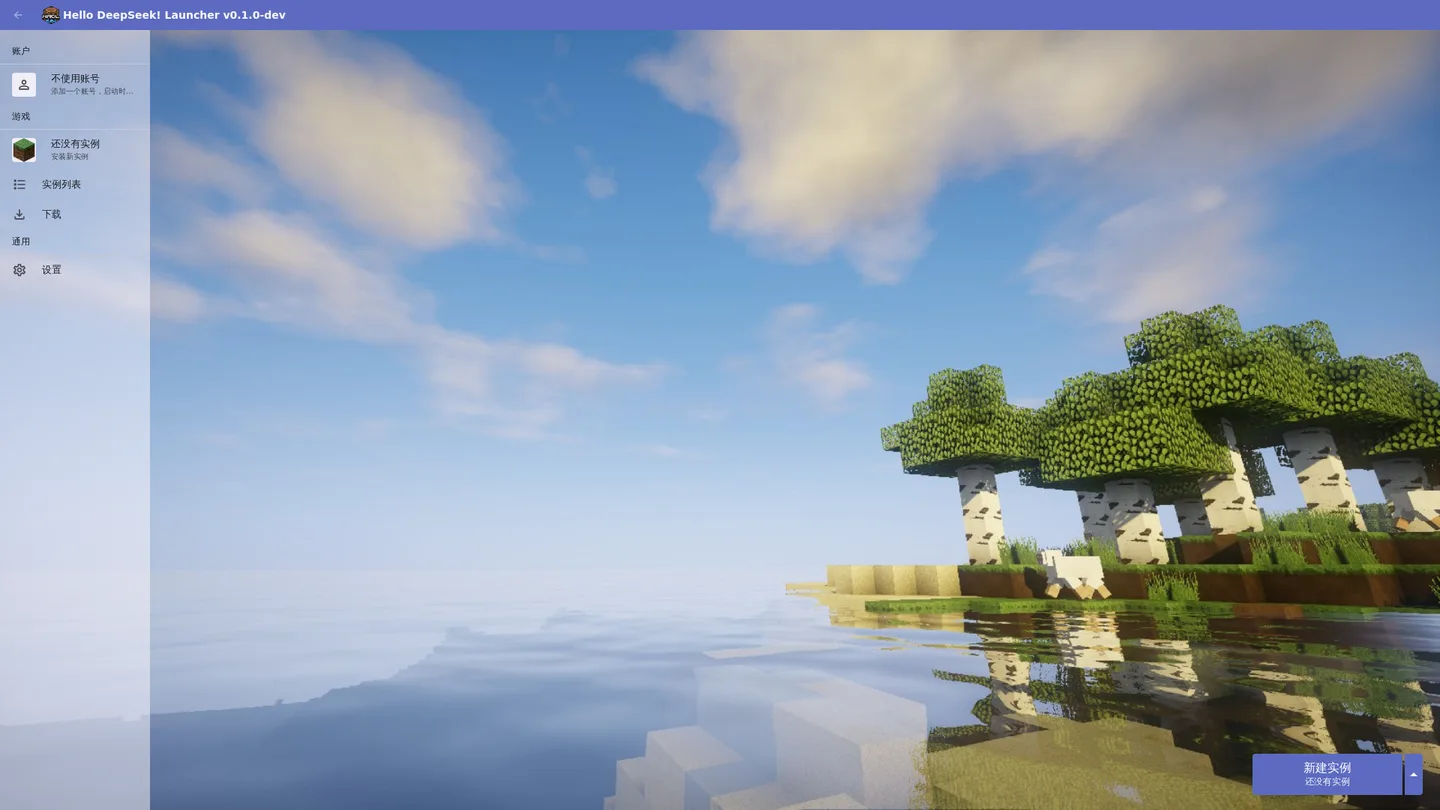
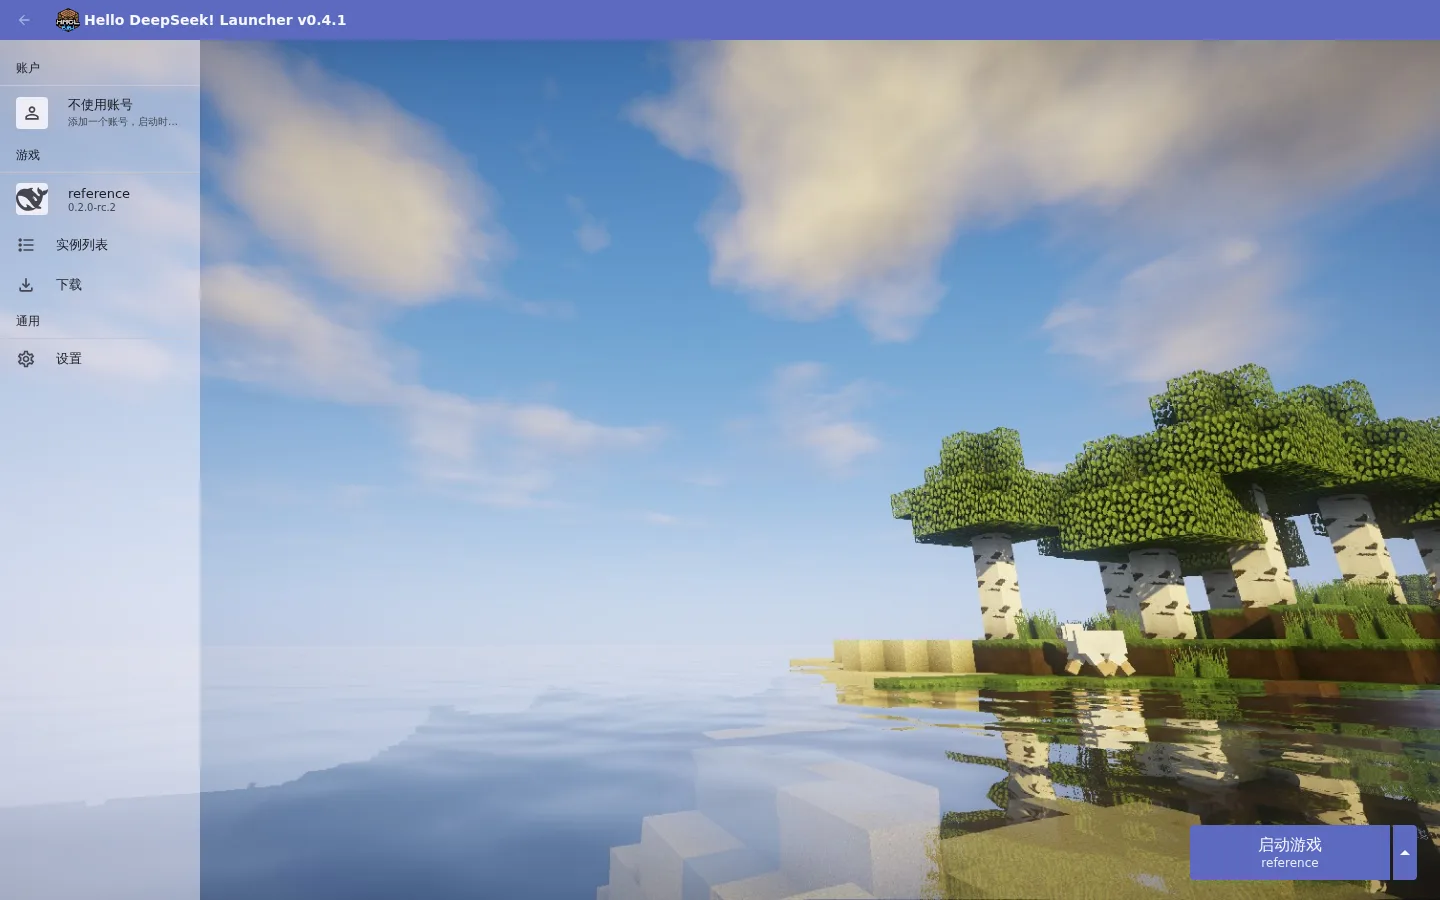
docs(screenshots): 重拍当前界面（v0.4.1），并补一张品牌实例层
旧图是 10-03 拍的，画的是品牌区之前的界面（实例列表那张甚至是空列表）。这次在演示数据集上
重拍六张：9 个 dsh 实例（名字改成中性的 web-agent / docs-bot / research / …）+ kimi + zcode，
管理员账号 admin，没有真实账号/供应商/路径/口令。

- 01-setup / 02-main（标题栏已是 v0.4.1）/ 03-instances（9 行 + 左栏两层）/ 04-download /
  05-settings 全部刷新；**新增 06-brands**：品牌实例层（品牌页签行 + 版本卡 + 实例卡）。
- README 的 details 里补一行品牌实例截图，summary 文案同步；docs/screenshots/README.md
  补上新文件、演示数据说明，以及「列表截图要让实例处于停止态」——运行中的实例 URL 带 ?token=。
- 规格不变：1440 宽、WebP -quality 82 -strip；六张合计约 330 KB。

diff --git a/docs/screenshots/README.md b/docs/screenshots/README.md
@@ -1,25 +1,33 @@
 # docs/screenshots —— README 用的界面截图
 
-README 里的五张图直接引用本目录（仓库内相对路径，由 GitHub 自己的 CDN 提供），
+README 里的截图直接引用本目录（仓库内相对路径，由 GitHub 自己的 CDN 提供），
 不再走任何图床——图床慢的时候整页都在等它，而仓库里的图跟着仓库走。
 
 | 文件 | 拍的是什么 |
 | --- | --- |
 | `01-setup.webp` | 首启初始化（建管理员账号） |
 | `02-main.webp` | 主界面 + 右下启动面板 |
-| `03-instances.webp` | 实例列表页 |
+| `03-instances.webp` | 实例列表页（左：dsh 实例 / 品牌实例两层） |
 | `04-download.webp` | 下载页 |
-| `05-settings.webp` | 设置页 |
+| `05-settings.webp` | 设置页（通用） |
+| `06-brands.webp` | 品牌实例层：品牌页签行 + 版本卡 + 实例卡（原地切换出来的那一层） |
 
 ## 规格与重新生成
 
-- 视口 **1440×900**（`02-main` 原来是 1920×1080，已统一缩到 1440 宽）。
-- 转成 **WebP，`-quality 82`，`-strip`**：这批图从 ~3.9 MB 压到 ~270 KB（约 −93%）。
+- 视口 **1440×900**（`02-main` 原本是 1920×1080，已统一到 1440 宽）。
+- 转成 **WebP，`-quality 82`，`-strip`**：六张合计约 **330 KB**（PNG 原图约 4 MB）。
   截图里全是 UI 文字，82 已经看不出差别；要更清晰就提到 88~90，代价是体积翻倍。
-- 重新生成（在面板跑起来、页面上有真实数据的状态下截图）：
+- 重新生成：
 
 ```bash
-magick shot.png -resize '1440x>' -strip -quality 82 docs/screenshots/03-instances.webp
+# 截图（面板跑起来、页面上有数据的状态），然后：
+magick shot.png -strip -quality 82 docs/screenshots/03-instances.webp
 ```
 
-> 换图前确认页面上没有不该公开的东西（内网域名、口令、真实账号名）；这是截图最容易漏的一步。
+- 2026-10-16 这一批是在**一份演示数据集**上拍的：9 个 dsh 实例（名字是中性的
+  `web-agent` / `docs-bot` / `research` / …）+ 1 个 kimi + 1 个 zcode 实例，
+  管理员账号为 `admin`，**没有真实账号/供应商/路径/口令**。
+
+> 换图前务必确认页面上没有不该公开的东西（内网域名、口令、真实账号名、实例 URL 里的
+> `?token=`）——这是截图最容易漏的一步。实例运行中时列表与浮层都会带上 token，
+> 所以列表截图请让实例处于停止态。

diff --git a/README.md b/README.md
@@ -43,11 +43,15 @@
   环境变量 `NPM_CONFIG_REGISTRY` 退化成回退值。细节见 [docs/deployment.md](docs/deployment.md)。
 
 <details>
-<summary>更多截图（初始化引导 / 实例列表 / 下载 / 设置）</summary>
+<summary>更多截图（初始化引导 / 实例列表 / 品牌实例 / 下载 / 设置）</summary>
 
 | 初始化引导（首启建号） | 实例列表 |
 |---|---|
 | ![初始化](docs/screenshots/01-setup.webp) | ![实例列表](docs/screenshots/03-instances.webp) |
+
+| 品牌实例（实例列表页内原地切换：品牌页签 + 版本/实例两卡） |
+|---|
+| ![品牌实例](docs/screenshots/06-brands.webp) |
 
 | 下载（真实 npm 版本列表） | 设置 |
 |---|---|
